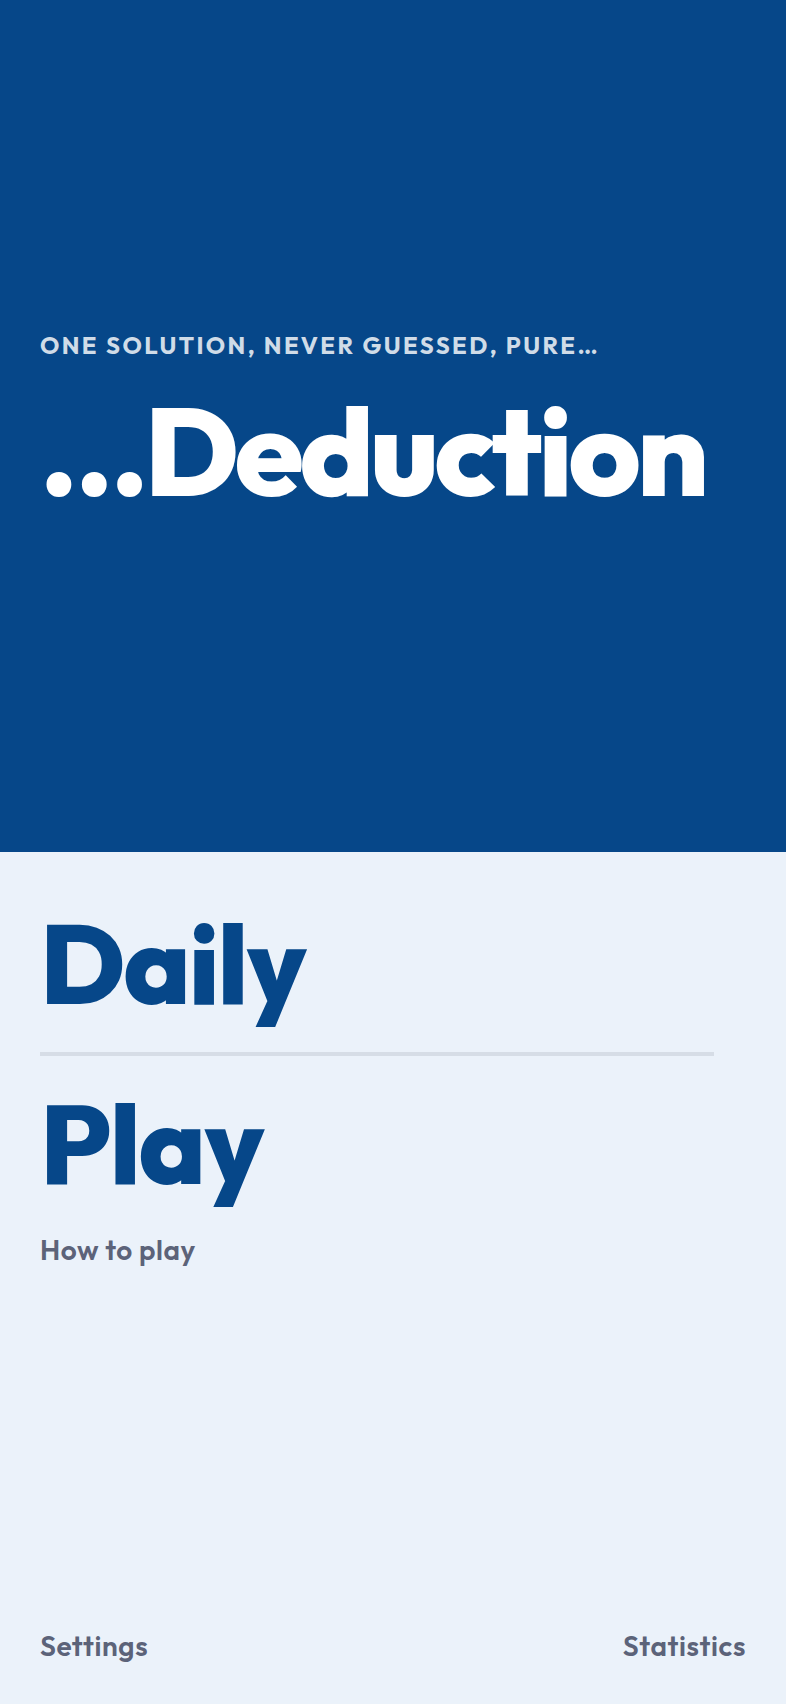
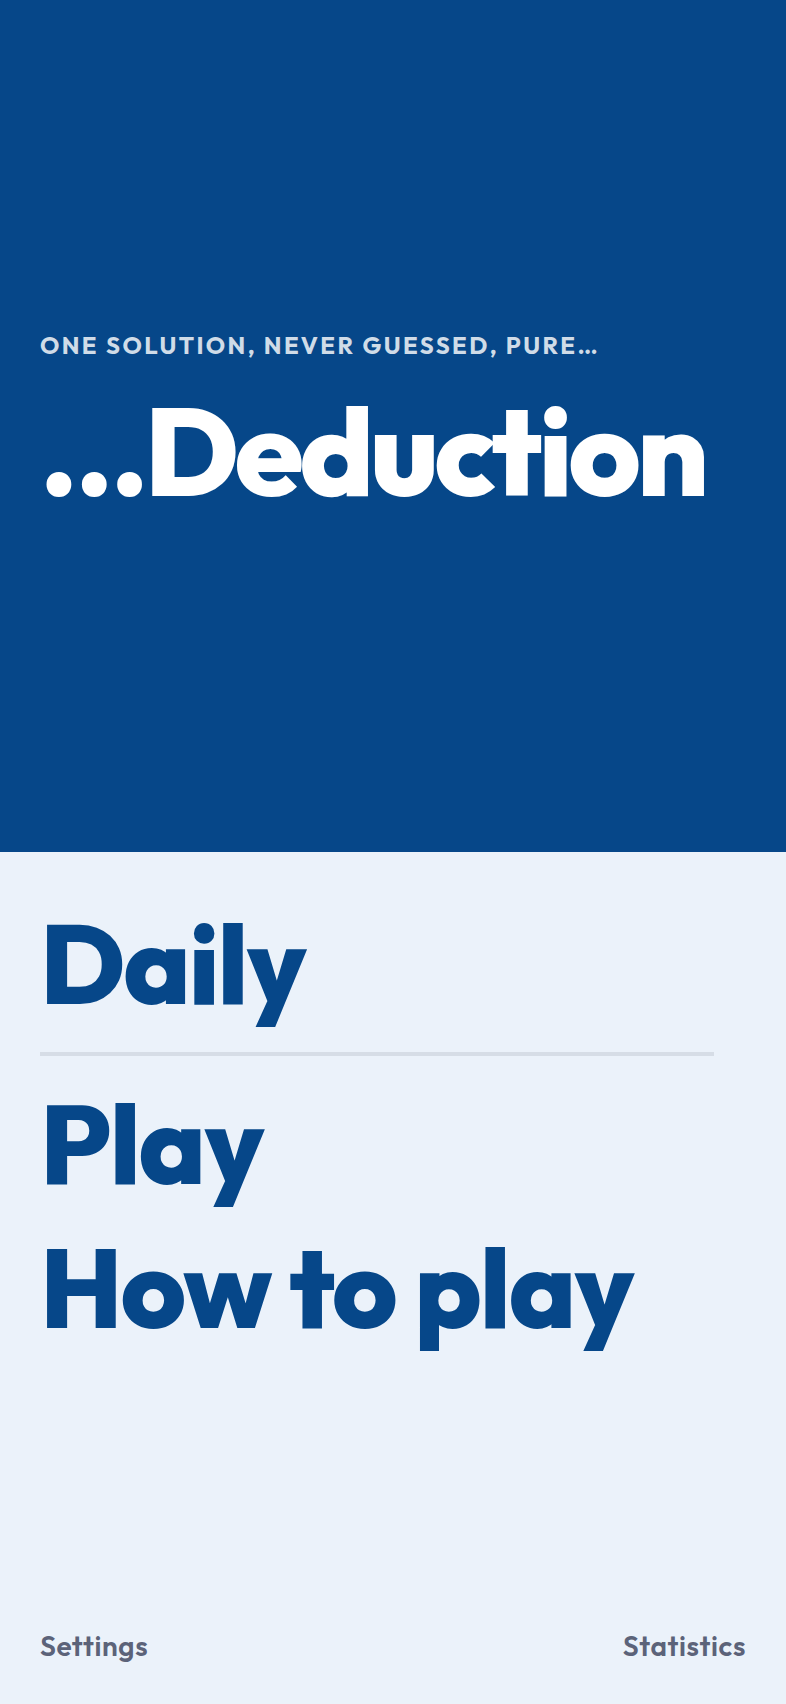
Set How to play at the size of the words above it
It was drawn in the small type Settings and Statistics wear at the foot
of the screen, which put the one thing a first-time player needs in the
margins of a page that has no small print. It is set like Daily and
Play now, directly under Play with no rule between them: the rule says
these are two different offers, and this is not a third one - it is the
same offer explained.

Claude-Session: https://claude.ai/code/session_01RrDehsX5bvPAsFa5dYERaj

Changed region(s): [[0.3664, 0.7154, 0.8244, 0.8087], [0.0305, 0.7154, 0.3359, 0.7776]]

diff --git a/src/screens/StartScreen.tsx b/src/screens/StartScreen.tsx
@@ -43,11 +43,12 @@ interface Props {
  * somewhere to go once, not the point of the page, and putting them in a row of
  * cards with the two doors made them all look like the same size of decision.
  *
- * **How to play** is set the same size as those, and sits under **Play** rather
- * than with them at the foot, because it is not a third place to go: it is a
- * footnote to that door, for the one reader who does not already know what is
- * behind it. Somebody who does never has to read it, and somebody who does not
- * finds it in the one place they were already looking.
+ * **How to play** is set the same size as the two above it and sits directly
+ * under Play, with no rule between them: the rule says *these are two different
+ * offers*, and this is not a third one — it is the same offer explained, for
+ * the reader who has never met a logic grid. Set any smaller it would read as a
+ * footnote to a page that has no small print, and the one player who needs it
+ * most is the one least likely to go looking in the margins.
  */
 export function StartScreen({ onDaily, onPlay, onHowToPlay, onOpenSettings, onOpenStats }: Props) {
   const insets = useSafeAreaInsets();
@@ -62,7 +63,7 @@ export function StartScreen({ onDaily, onPlay, onHowToPlay, onOpenSettings, onOp
           <Door label={t('start.daily')} onPress={onDaily} />
           <View style={styles.rule} />
           <Door label={t('start.play')} onPress={onPlay} />
-          <FootLink label={t('start.howToPlay')} onPress={onHowToPlay} />
+          <Door label={t('start.howToPlay')} onPress={onHowToPlay} />
         </View>
 
         <View style={styles.footer}>

diff --git a/README.md b/README.md
@@ -189,7 +189,7 @@ pictures below are for.
 | <img src="docs/screenshots/07-board.png" width="230" alt="The board"><br>**7. Grid** — a 4 × 4 puzzle as a 3 × 3 staircase of six grids, sized to fit the screen. | <img src="docs/screenshots/08-menu.png" width="230" alt="Game menu"><br>**8. Puzzle settings** — behind the burger: the board pair and the colour, set the way the settings screen sets them, then starting this one over. | <img src="docs/screenshots/09-clue.png" width="230" alt="The clue window"><br>**9. Clue** — one clue at a time, in a window with the room to read it, under a line saying who is supposed to have said it. |
 | <img src="docs/screenshots/10-highlight.png" width="230" alt="A clue lit up on the grids"><br>**10. Highlight** — the button at the bottom right lights every row and column the clue talks about. | <img src="docs/screenshots/11-marked.png" width="230" alt="A part-marked board"><br>**11. Marked up** — a mark the player made is drawn heavily, one the board worked out for itself lightly. Same shape, same colour: the difference survives being colour-blind. | <img src="docs/screenshots/12-stuck.png" width="230" alt="A board that can no longer be solved"><br>**12. Out of reach** — asking for a new clue checks the board first, and stops with a window offering to rewind when the answer has been marked away. |
 | <img src="docs/screenshots/13-item-card.png" width="230" alt="The card behind an item's picture"><br>**13. Item card** — tap any picture on the board to meet it, and page through the rest of its set. | <img src="docs/screenshots/14-solved.png" width="230" alt="A finished game"><br>**14. Solved** — the finish takes the screen: time, clues read, how it compares, **Share**, the answer table. | <img src="docs/screenshots/15-statistics.png" width="230" alt="Statistics screen"><br>**15. Statistics** — totals, bests by difficulty and the trend of recent solve times. |
-| <img src="docs/screenshots/16-night.png" width="230" alt="Setup screen in night colours"><br>**16. Night** — the difficulties in night colours, with a game waiting behind **Continue**. | <img src="docs/screenshots/17-catalogue.png" width="230" alt="The numbered list zoomed out to groups of thirty-six"><br>**17. Zoomed out** — the numbered list two presses of the glass out: six rows of thirty-six puzzles, paged the same way, each opening to the pages inside it. | <img src="docs/screenshots/18-tutorial.png" width="230" alt="The how-to-play board part way through"><br>**18. How to play** — under **Play** on the front door: three customers, three drinks, and four marks walked on a real board. |
+| <img src="docs/screenshots/16-night.png" width="230" alt="Setup screen in night colours"><br>**16. Night** — the difficulties in night colours, with a game waiting behind **Continue**. | <img src="docs/screenshots/17-catalogue.png" width="230" alt="The numbered list zoomed out to groups of thirty-six"><br>**17. Zoomed out** — the numbered list two presses of the glass out: six rows of thirty-six puzzles, paged the same way, each opening to the pages inside it. | <img src="docs/screenshots/18-tutorial.png" width="230" alt="The how-to-play board part way through"><br>**18. How to play** — the third of the front door's words: three customers, three drinks, and four marks walked on a real board. |
 
 The theme differs from run to run because it is drawn at random, and the
 statistics screen is captured with a sample history baked into the script — the
@@ -206,9 +206,10 @@ rest is the app behaving normally.
    rule between them. Everything hangs off the same left margin so the eye drops
    down one edge. **Settings** and **Statistics** are text at the foot of the
    screen — Statistics pushed to the right so the two sit in opposite corners
-   rather than reading as a pair. Under **Play**, in the same small type as
-   those two, is **How to play**: a footnote to that door for the one reader
-   who has never met a logic grid, and invisible to everybody else.
+   rather than reading as a pair. Under **Play**, set the same size as it and
+   with no rule between them, is **How to play**: the rule says *these are two
+   different offers*, and this is not a third one — it is the same offer
+   explained, for the reader who has never met a logic grid.
 2. **Play** opens the difficulties, which is the same page with its bottom half
    swapped — the panel above is the same block, given the same half, as it is on
    every screen before a board: Play → a difficulty → a number changes the
